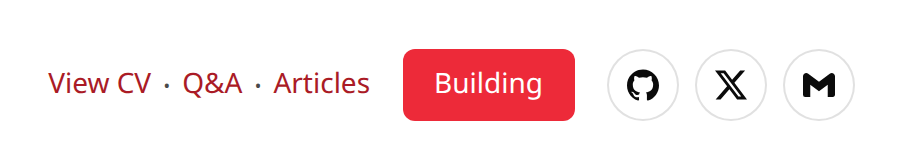
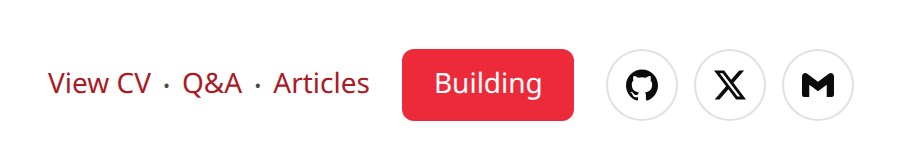
Revert hero pack edge-hug; keep CTA order only
Restore #102 centered placement for the reach cluster and social icons. Building stays last in the action row; do not flex-end the whole pack.

diff --git a/src/lib/hire-layout-derived.ts b/src/lib/hire-layout-derived.ts
@@ -3,8 +3,8 @@ import type { HireContent } from "@/lib/hire-content";
 /** Web-only layout plan — derived from content shape, never forks cvdata facts. */
 export type HirePackMode = "stack" | "stack-pair" | "auto-fit-dense" | "columns" | "contact-split";
 
-/** Pack the action group, then edge-hug the right cell. Primary is rightmost in the pack. */
-export type HireReachZone = "edge-hug";
+/** Pack the action group, then center it. End-align only if center would orphan a leftover. */
+export type HireReachZone = "center-first";
 
 export type HireInteractiveScope = "hero-reach" | "evidence-links";
 
@@ -87,7 +87,7 @@ export function deriveHireLayout(content: HireLayoutContent): HireLayoutPlan {
     hero: {
       mode: "stack-pair",
       peek: false,
-      reach: "edge-hug",
+      reach: "center-first",
       primaryAction,
     },
     proofs: { mode: "auto-fit-dense", minCell: proofMinCell(content.proofs.length) },
@@ -95,7 +95,7 @@ export function deriveHireLayout(content: HireLayoutContent): HireLayoutPlan {
     evidence: { mode: "columns", counts: evidenceColumnCounts(evidenceCardCount(content)) },
     contact: { mode: "contact-split" },
     interactives: {
-      reach: "edge-hug",
+      reach: "center-first",
       scopes: interactiveScopes(content),
     },
   };

diff --git a/src/lib/hire-phi-flow.pack.test.ts b/src/lib/hire-phi-flow.pack.test.ts
@@ -15,16 +15,11 @@ describe("hire-phi-flow pack rules", () => {
     expect(block(".hire-phi__hero")).toContain("justify-content: center");
   });
 
-  it("edge-hugs a packed hero CTA cluster at the right cell without stretching", () => {
+  it("centers a packed hero CTA cluster instead of end-parking when wide", () => {
     expect(css).not.toContain("@container (min-width: 28rem)");
     expect(block(".hire-phi__hero-reach")).toContain("fit-content");
-    expect(block(".hire-phi__hero-reach")).toContain("justify-content: flex-end");
-    expect(block(".hire-phi__hero-reach")).toContain("margin-inline-start: auto");
-    expect(block(".hire-phi__hero-reach .hire-phi__actions")).toContain(
-      "justify-content: flex-end"
-    );
+    expect(block(".hire-phi__hero-reach")).toContain("justify-content: center");
     expect(block(".hire-phi__hero-reach .hire-phi__actions")).not.toMatch(/(?<!-)width:\s*100%/);
-    expect(block(".hire-phi__hero-social-wrap")).toContain("justify-content: flex-end");
     expect(block(".hire-phi__hero-social-wrap")).not.toMatch(/(?<!-)width:\s*100%/);
   });
 

diff --git a/src/styles/hire-phi-flow.css b/src/styles/hire-phi-flow.css
@@ -193,20 +193,20 @@
     padding-bottom: var(--phi-gap-4);
   }
 
-  /* Packed CTA + social cluster. Edge-hug the right cell — never width:100% + space-between. */
+  /* Packed CTA + social cluster. Center the pack — never width:100% + flex-end. */
   .hire-phi__hero-reach {
     display: flex;
     flex-wrap: wrap;
     align-items: center;
-    justify-content: flex-end;
+    justify-content: center;
     gap: var(--phi-gap-2);
     width: fit-content;
     max-width: 100%;
-    margin-inline-start: auto;
+    margin-inline: auto;
   }
 
   .hire-phi__hero-reach .hire-phi__actions {
-    justify-content: flex-end;
+    justify-content: center;
     width: fit-content;
     max-width: 100%;
   }
@@ -214,7 +214,7 @@
   .hire-phi__hero-social-wrap {
     display: flex;
     width: fit-content;
-    justify-content: flex-end;
+    justify-content: center;
   }
 
   .hire-phi__arc-note {

diff --git a/src/components/social-links.tsx b/src/components/social-links.tsx
@@ -5,7 +5,7 @@ import cvdata from "../data/cvdata.json";
 type SocialLinksProps = {
   className?: string;
   size?: "default" | "compact";
-  align?: "center" | "start" | "end";
+  align?: "center" | "start";
 };
 
 export function SocialLinks({ className, size = "default", align = "center" }: SocialLinksProps) {
@@ -16,11 +16,7 @@ export function SocialLinks({ className, size = "default", align = "center" }: S
       aria-label="Profile links"
       className={cn(
         "flex w-fit items-center",
-        align === "start"
-          ? "justify-start"
-          : align === "end"
-            ? "justify-end"
-            : "mx-auto justify-center",
+        align === "start" ? "justify-start" : "mx-auto justify-center",
         compact ? "gap-2" : "gap-3 sm:gap-4",
         className
       )}

diff --git a/src/lib/hire-layout-derived.test.ts b/src/lib/hire-layout-derived.test.ts
@@ -51,8 +51,8 @@ describe("deriveHireLayout", () => {
     const content = getHireContent();
     expect(content.proofs.some((proof) => proof.href)).toBe(true);
     const plan = deriveHireLayout(content);
-    expect(plan.hero.reach).toBe("edge-hug");
-    expect(plan.interactives.reach).toBe("edge-hug");
+    expect(plan.hero.reach).toBe("center-first");
+    expect(plan.interactives.reach).toBe("center-first");
     expect(plan.interactives.scopes).toEqual(["hero-reach", "evidence-links"]);
     expect(plan.interactives.scopes).not.toContain("proofs");
   });

diff --git a/src/components/hire/hire-landing.tsx b/src/components/hire/hire-landing.tsx
@@ -65,7 +65,7 @@ export function HireLanding({ content }: HireLandingProps) {
                   ))}
                 </nav>
                 <div className="hire-phi__hero-social-wrap">
-                  <SocialLinks size="compact" align="end" className="hire-phi__hero-social" />
+                  <SocialLinks size="compact" align="center" className="hire-phi__hero-social" />
                 </div>
               </div>
             </div>

diff --git a/PLAN.md b/PLAN.md
@@ -30,7 +30,7 @@ Pretext (`@chenglou/pretext`) is **out** unless CSS packing later needs measured
 
 ## Section recipes (production `/` only)
 
-1. **Hero `#home`** — φ-split cluster (`@container`). Left: `Available now · Stockholm`, name, role. Right: seat + thesis **start-aligned**. Under that, **one packed CTA cluster** (`width: fit-content`) that **edge-hugs** the right cell: text secondaries (View CV · Q&A · Articles) first, **Building primary rightmost** in the pack, social on the same end edge. Never `width: 100%` + `space-between`. Hero is `min-height: 100dvh` so `#about` is not a cut strip on the first screen.
+1. **Hero `#home`** — φ-split cluster (`@container`). Left: `Available now · Stockholm`, name, role. Right: seat + thesis **start-aligned**. Under that, **one packed CTA cluster** (`width: fit-content`, **centered**): View CV · Q&A · Articles, then Building last in the action row, plus social. End-align the packed cluster only if center orphans a leftover row. Never `width: 100%` + `flex-end` / `space-between`. Hero is `min-height: 100dvh` so `#about` is not a cut strip on the first screen.
 2. **Proofs `#about`** — “What you are hiring”. Auto-fit dense cards (`minmax(var(--hire-proof-min), 1fr)`). Title + prose **start-aligned**. No `PROOF NN` eyebrow. Repo links are in-card text, **not** reach/interactives.
 3. **Systems `#systems`** — Same full `LandscapeAtlas` as `/building` (five clusters → four docks → operator loop). `cvdata` is the record plane in prose, not a left-band star. `ensembly` sits at the sink. Brief evolve line + embedded atlas; keep **Full landscape on Building** link. Stack by default.
 4. **Evidence `#work`** — CSS `columns` pack. Family is a per-card eyebrow (no Product | Development void). Link rows may use reach; body text stays start-aligned.
@@ -65,7 +65,7 @@ Operator SoT: attached marks (do not edit). Gates green alone is not enough.
 | # | Mark | Pass |
 |---|------|------|
 | 1 | Building main, CV secondary | Primary filled button = Building; View CV is a text link |
-| 2 | Right-container CTAs aligned | Packed cluster **edge-hugs** the right cell; text secondaries precede Building (rightmost primary); social shares that end edge |
+| 2 | Right-container CTAs aligned | Packed cluster **centered** under thesis; Building is last in the action row; social sits with the CTAs — not stranded at the far right |
 | 3 | Hero owns the first desktop screen | `#about` heading and proof cards sit at or below the fold in a 1280×720 first viewport |
 | 4 | Proof prose not right-aligned | `.hire-phi__proof-line` / titles `text-align: start`; no interactives class on the grid |
 | 5 | Content-led pack | `auto-fit` / `columns`; grep-clean of `span-8`/`span-4` in hire JSX |

diff --git a/LAYOUT.md b/LAYOUT.md
@@ -76,7 +76,7 @@ RouteBand → Section → Cluster → Cell → Mark
 3. No orphan CTA rows — primary + secondaries are one flex group.
 4. No wasted major voids — no rigid Product \| Development columns.
 5. **Pack related marks** — never stretch a row and fling siblings to opposite edges (`width: 100%` + `space-between` / `flex-end`).
-   - **Hero CTAs + social:** one packed group (`width: fit-content; max-width: 100%`) that **edge-hugs** the right cell’s end. Text secondaries (View CV · Q&A · Articles) precede the primary; **Building is rightmost** in that action pack. Social shares the same end edge. Never `width: 100%` + `space-between`.
+   - **Hero CTAs + social:** one packed group (`width: fit-content; max-width: 100%`), **centered** under the thesis. In the action row, text secondaries precede Building (primary is **last in that row**). End-align that *whole pack* only if centering would orphan a leftover row — **not** because the column got wide.
    - **Evidence links:** pack with start-aligned prose (do not fly to the card’s end).
    - **Channels:** icon + label/value with a φ gap, start-aligned.
    - Never put reach classes on proof grids or proof prose.
@@ -89,7 +89,7 @@ RouteBand → Section → Cluster → Cell → Mark
 
 `center-then-end` (center on narrow, `flex-end` from ~28rem / ~20rem) was wrong. It treated “center **or** right” as “always park the group on the end edge once the column is wide.” Combined with `width: 100%`, that stranded social icons at the far right of the thesis column. The same mistake on channels (`justify-content: space-between` + end-aligned text) threw icons and Email/Location across a void.
 
-The operator mark was: related marks stay a **tight pack**. For the hero CTA cluster, **edge-hug** that pack at the right cell’s end — never `width: 100%` + `space-between`, and never `center-then-end` at a width breakpoint.
+The operator mark was: related marks stay a **tight pack**. For the hero CTA cluster, **prefer center**; use right only when center *fails* (orphan leftover) — never as the wide-column default. Building is last in the action row; that is order, not pack-level `flex-end`.
 
 ---
 

diff --git a/TASTE.md b/TASTE.md
@@ -19,7 +19,7 @@ See [PLAN.md](PLAN.md) for the 7 optical marks this landing must pass.
 | 5 | Editorial | Type + whitespace; no SaaS metric tiles, purple/neon, glassmorphism |
 | 6 | Receipts | Figures and links from **cvdata** only; honest OSS vs employment |
 | 7 | Space | Evidence packs dense; no rigid family gutter |
-| 7b | CTA pack | Hero actions + social are one **edge-hugged** pack (text secondaries, then Building rightmost); evidence links pack with their prose; proof prose start-aligned |
+| 7b | CTA pack | Hero actions + social are one **centered** pack (View CV · Q&A · Articles, then Building last in the row); evidence links pack with their prose; proof prose start-aligned |
 | 7c | Channels | Icon + `@handle` / Email / Location as a **tight row** — no canyon between icon and text |
 | 8 | Product voice | Hire-visitor readable; no Steward/coach/meta |
 | 9 | Subtract first | Remove Talk CTAs and text walls before adding chrome |
@@ -38,7 +38,7 @@ See [PLAN.md](PLAN.md) for the 7 optical marks this landing must pass.
 | Coach/meta copy | Rewrite for hire visitor or delete |
 | Nested `<main>` | Single `#main` from layout |
 | Wasted major void | CSS-column evidence pack |
-| `center-then-end` / full-width `flex-end` | Pack the group (`fit-content`), then edge-hug the right cell. Text secondaries precede Building |
+| `center-then-end` / full-width `flex-end` | Pack the group (`fit-content`), then center. Right only if center orphans a leftover |
 | Channel `space-between` | Icon and text belong together; `gap` not a stretched gutter |
 
 ---

diff --git a/.cursor/skills/verify-devprofile/features/home.md b/.cursor/skills/verify-devprofile/features/home.md
@@ -34,5 +34,5 @@ Preconditions: `pnpm verify:doctor` is ok.
 - `#projects` and `#academic` are not mounted on this page.
 - Course proof links live on `/certificates`.
 - Reach/interactives classes belong on hero actions and evidence links only — never on the proofs grid.
-- Hero CTAs + social are one **packed, edge-hugged** cluster (`fit-content`) at the right cell’s end. DOM order is View CV · Q&A · Articles, then Building (rightmost primary). Do not implement `center-then-end` or `width: 100%` + `space-between`.
+- Hero CTAs + social are one **packed, centered** cluster (`fit-content`). DOM order is View CV · Q&A · Articles, then Building (last in the action row). Do not implement `center-then-end` (center, then `flex-end` from ~28rem) or `width: 100%` + end justify — that strands icons at the far right.
 - Channel rows pack icon + text with a gap. `space-between` on `.hire-phi__channel` is a fail.

diff --git a/DESIGN.md b/DESIGN.md
@@ -43,7 +43,7 @@ Related marks stay packed. Never stretch a row and park siblings on opposite edg
 
 | Surface | Default | Escalation |
 |---------|---------|------------|
-| Hero CTA + social | Pack (`fit-content`), **edge-hug** the right cell; text secondaries then Building rightmost | Never `width: 100%` + `space-between` |
+| Hero CTA + social | Pack (`fit-content`), **center** under thesis; Building last in the action row | End-align the *whole pack* only if center orphans a leftover row |
 | Evidence links | Pack with start-aligned prose | — |
 | Direct channels | Icon + text, `flex-start` + gap | Never `space-between` |
 | Proofs | Title + prose start | No interactives class |
